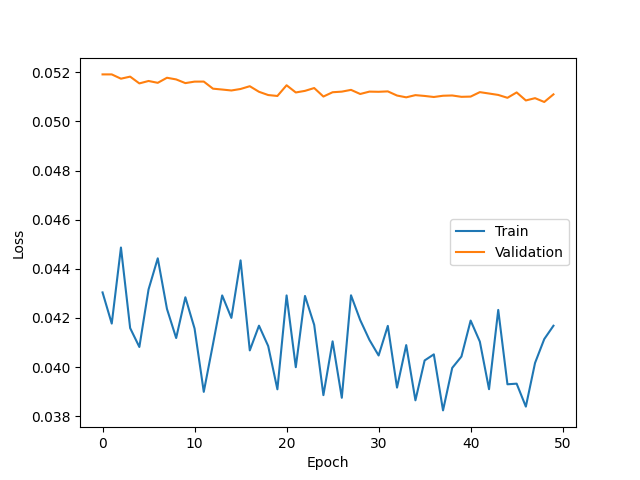
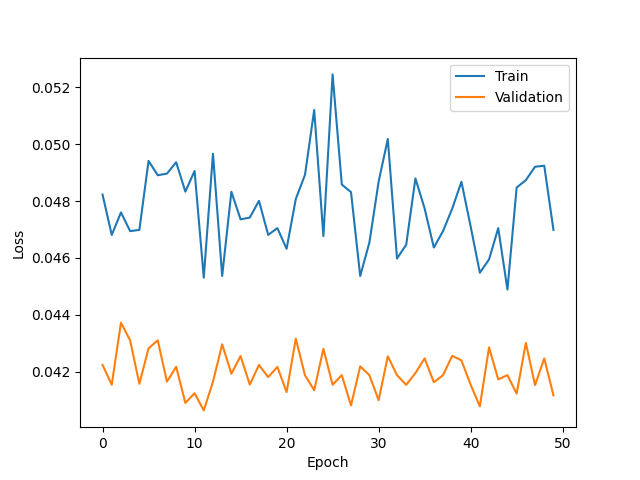
fix

diff --git a/main.py b/main.py
@@ -15,16 +15,16 @@ def main(predict_ps: bool, validate: bool) -> None:
     test_samples = 100_000
     n_features = 4
     delta = 0.0
-    ps_delta = 0.1
-    rct_ratio = 0.15
+    ps_delta = 0.1  # 3パターン
+    rct_ratio = 0.05  # 8パターン # Direct:rct_ratioは大きい方がいい
     batch_size = 8
     weight_decay = 1e-2
     model_name = "Direct"
     model_params = {"input_dim": n_features}
-    method = "DR"
+    method = "Direct"
     only_rct = True if method == "Direct_only_RCT" else False
     num_epochs_list = [50, 50]
-    lr_list = [0.0001, 0.0001]
+    lr_list = [0.0001, 0.00001]
     dataset = DatasetGenerator(
         n_samples,
         n_features,
@@ -54,7 +54,7 @@ def main(predict_ps: bool, validate: bool) -> None:
             train_dl = make_loader(
                 train_dataset,
                 model_name=model_name,
-                batch_size=len(train_dataset),
+                batch_size=batch_size,
                 train_flg=True,
                 method="Direct",
                 seed=seed,
@@ -62,7 +62,7 @@ def main(predict_ps: bool, validate: bool) -> None:
             val_dl = make_loader(
                 val_dataset,
                 model_name=model_name,
-                batch_size=len(val_dataset),
+                batch_size=batch_size,
                 train_flg=True,
                 method="Direct",
                 seed=seed,
@@ -90,7 +90,9 @@ def main(predict_ps: bool, validate: bool) -> None:
         weight_decay=weight_decay,
     )
     if not validate:
-        model = trainer.train(train_dl=train_dl, val_dl=val_dl, model=model, method=method)
+        model = trainer.train(
+            train_dl=train_dl, val_dl=val_dl, model=model, method=method
+        )
         trainer.save_model(model, f"model_{method}.pth")
 
     inference(

diff --git a/src/make_data.py b/src/make_data.py
@@ -44,7 +44,7 @@ class DatasetGenerator:
             # auc_score = self.calculate_auc(dataset["T"], dataset["T_prob"])
             if self.predict_ps:
                 dataset |= self.predict_treatment(
-                    dataset["features"], dataset["T"], dataset["RCT_flag"]
+                    dataset["features"], dataset["T_prob"], dataset["RCT_flag"]
                 )
                 propensity_score = dataset["T_prob_pred"]
             else:
@@ -102,11 +102,7 @@ class DatasetGenerator:
         self, features: NDArray[Any], rct_flag: NDArray[Any]
     ) -> Dict[str, NDArray[Any]]:
         np.random.seed(self.seed)
-        std = self.ps_delta * np.sqrt(np.pi / 2)
-        T_prob = sigmoid(
-            (np.dot(features, np.array([1.5, 1.0, 0.5, 0.8])) - 2.0) / 1
-            + np.random.normal(0, std, size=len(features))
-        )
+        T_prob = sigmoid((np.dot(features, np.array([1.5, 1.0, 0.5, 0.8])) - 2.0) / 1)
         T_prob = T_prob.clip(0.01, 0.99)
         T_prob[rct_flag == 1] = 0.5
         T: NDArray[Any] = np.random.binomial(1, T_prob).astype(bool)
@@ -128,12 +124,11 @@ class DatasetGenerator:
     def predict_treatment(
         self,
         features: NDArray[Any],
-        T: NDArray[Any],
+        T_prob: NDArray[Any],
         rct_flag: NDArray[Any],
     ) -> Dict[str, NDArray[Any]]:
-        lgb = LGBMClassifier(verbose=-1, random_state=42)
-        lgb.fit(features, T)
-        T_prob_pred = lgb.predict_proba(features)[:, 1]
+        std = self.ps_delta * np.sqrt(np.pi / 2)
+        T_prob_pred = T_prob + +np.random.normal(0, std, size=len(features))
         T_prob_pred[rct_flag == 1] = 0.5
         T_prob_pred = T_prob_pred.clip(0.01, 0.99)
         return {"T_prob_pred": T_prob_pred}
